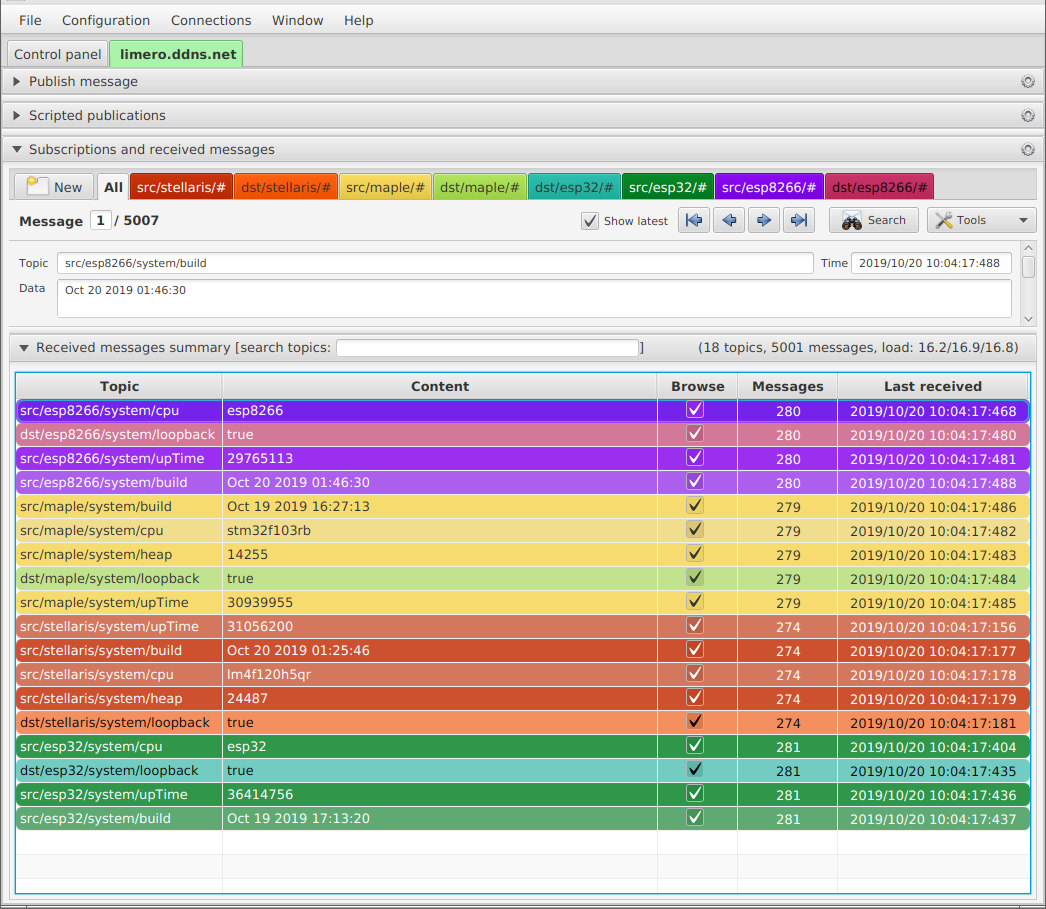
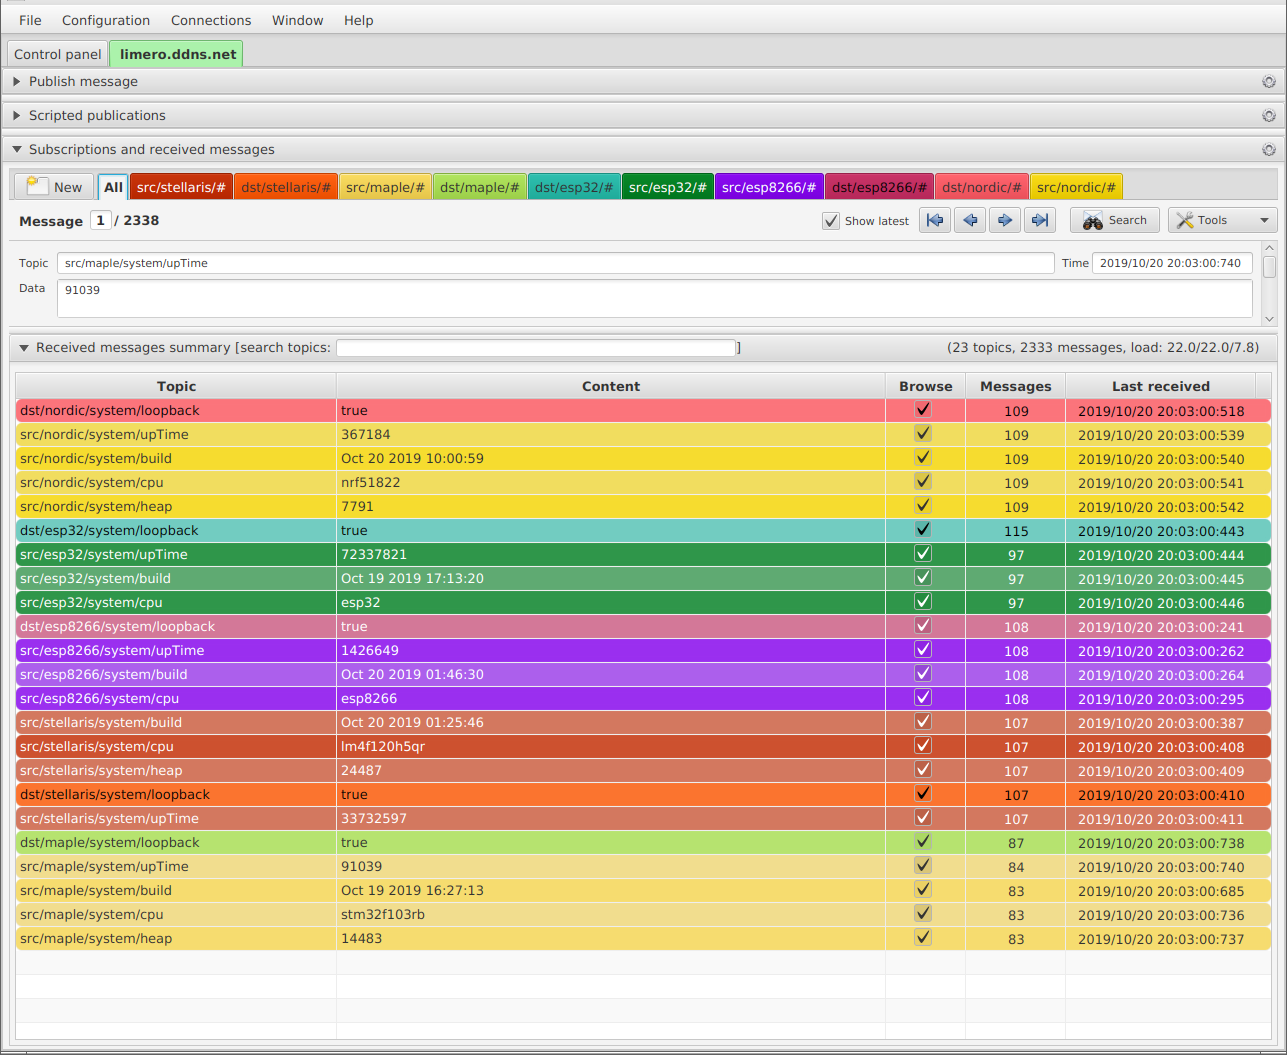
nrf51822 added , new images

diff --git a/nrf51822/src/main.cpp b/nrf51822/src/main.cpp
@@ -86,8 +86,8 @@ void mqttCallback(String topic, String message) {
 void setup() {
   Serial.begin(115200);
   LOG("===== Starting ProtoThreads  build " __DATE__ " " __TIME__);
-  Sys::hostname = "stellaris";
-  Sys::cpu = "lm4f120h5qr";
+  Sys::hostname = "nordic";
+  Sys::cpu = "nrf51822";
   mqtt.onMqttPublish(mqttCallback);
   ProtoThread::setupAll();
 }
